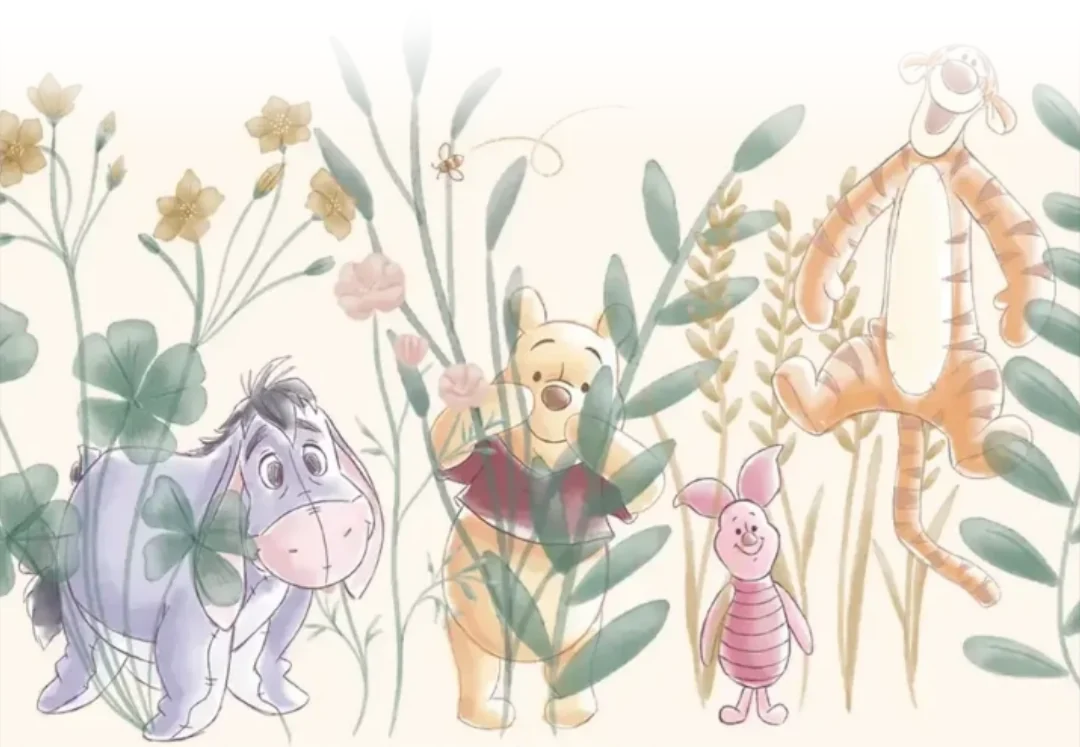
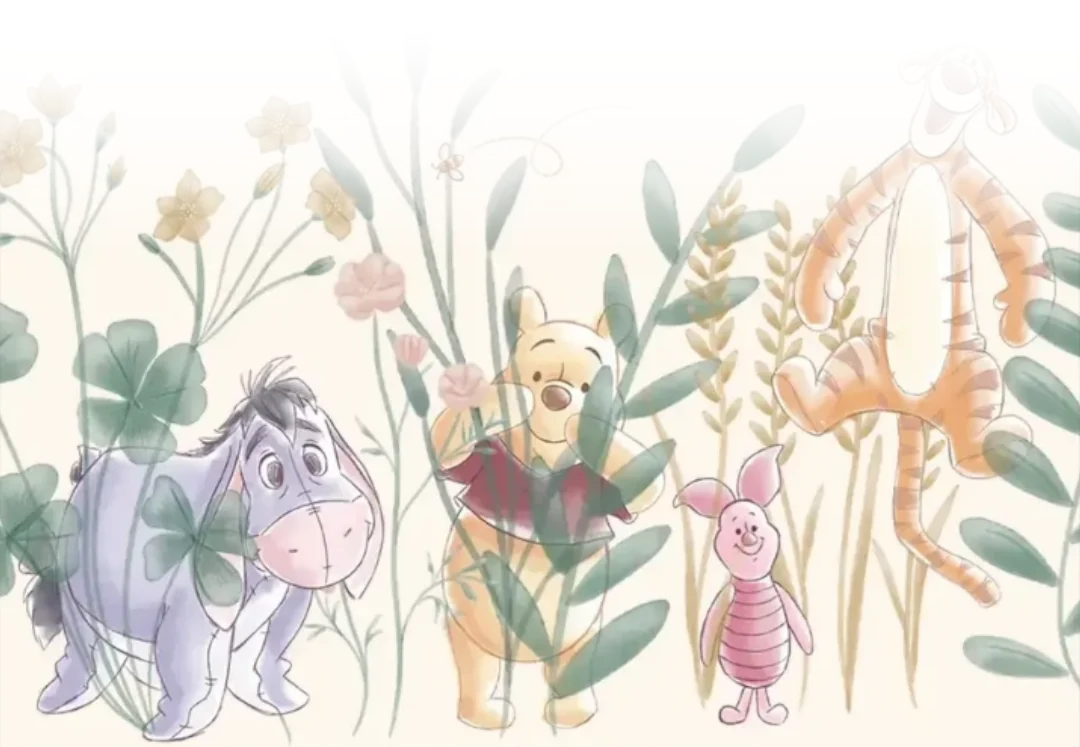
Set the card like the printed template; turn the card as it comes out
The letter is restated as the host's own card: one small serif line, the
names and occasion carried together in script, then the details as plain
centred lines. The labelled detail block, the dot rule and the display-serif
name were a different, busier card.

Ink sampled from the template, #7B7F6C. It measures 3.88:1 against the cream,
which is fine for the large script lines and short of the 4.5:1 body text
needs on a phone — so the script keeps the sampled colour exactly and the
body is darkened along the same hue to 5.25:1.

The card inside the envelope is now portrait and lies on its side, because a
portrait card does not fit upright in a landscape envelope. It is drawn out
sideways and turns upright as it settles in front, which is what your hands
do. It carries the same band and the same setting as the letter.

The card stock is set to the artwork's own cream. Against a full-width
watercolour, vellum's --paper was ten points cooler and read as a join.

The band's fade runs over the top third on a slow curve rather than the top
fifth. With almost no paint up there the last line of type can sit inside the
band instead of clearing it, which closes the stranded cream without standing
anyone in the flowers. Clearance is now derived from the image geometry and
the arithmetic is written down.

Also: the hint's arrow points up at the envelope rather than flattening out
to the right; the postmark date is 23 AUG 26 rather than roman numerals,
[…]

diff --git a/index.html b/index.html
@@ -60,6 +60,29 @@ body:not(.opened) #replyWrap{display:none}
 body:not(.opened) .letter{padding-bottom:0}
 .sheet{padding:var(--s10) clamp(24px,6vw,56px) var(--s9)}
 
+/* --- set like the printed card ---------------------------------------
+   The host's template is one muted green serif throughout, with the names
+   and the occasion carried by a single script line. Vellum's default
+   treatment — an uppercase eyebrow, a display-serif name, a dot rule and a
+   labelled detail block — is a different, busier card. This is that card
+   restated as the printed one. */
+.sheet .eyebrow{font-family:var(--disp);font-size:clamp(15px,3.4vw,17px);font-weight:400;
+  letter-spacing:.01em;text-transform:none;color:var(--card-ink);line-height:1.4}
+.sheet .honouree{font-family:var(--hand);font-weight:600;
+  font-size:clamp(40px,9vw,58px);line-height:.98;letter-spacing:0;
+  color:var(--card-ink-hd);text-align:center;margin:var(--s4) 0 0}
+.sheet .occasion{font-family:var(--hand);font-weight:600;
+  font-size:clamp(36px,8vw,52px);line-height:.98;color:var(--card-ink-hd);
+  text-align:center;margin-top:0}
+
+/* Every remaining fact, one centred line each. */
+.line{font-family:var(--disp);font-weight:400;text-align:center;
+  font-size:clamp(15px,3.5vw,17.5px);line-height:1.55;color:var(--card-ink);
+  margin-top:var(--s5)}
+.line--reply{font-size:clamp(13.5px,3vw,15px);color:var(--card-ink-2);margin-top:var(--s4)}
+.line a{color:inherit;font-size:inherit;text-decoration-color:color-mix(in srgb,var(--card-ink) 40%,transparent)}
+.line .sub{display:block;font-size:.94em;color:var(--card-ink-2);margin-top:2px}
+
 /* --- the card artwork -------------------------------------------------
    A host-supplied template paints behind the text. It is its own layer
    rather than a fifth entry in .paper's background stack: that stack is
@@ -79,11 +102,13 @@ body:not(.opened) .letter{padding-bottom:0}
    rather than doubled. */
 .sheet > :not(.sheet-inner){position:relative}
 .sheet-inner{display:var(--card-art-rule,block)}
-.host-note{margin-top:var(--s6);padding-top:var(--s6);border-top:var(--perf-fine);
-  font-size:16.5px;line-height:1.7;text-align:center}
-.host-note .sig{display:block;font-family:var(--hand);font-weight:600;font-size:27px;
-  color:var(--wax);margin-top:var(--s4);line-height:1}
-.sheet-actions{display:flex;justify-content:center;margin-top:var(--s7)}
+.host-note{font-family:var(--disp);font-weight:400;text-align:center;
+  font-size:clamp(15px,3.5vw,17.5px);line-height:1.55;color:var(--card-ink);
+  margin-top:var(--s6)}
+.host-note .sig{display:block;font-family:var(--hand);font-weight:600;font-size:26px;
+  color:var(--card-ink-hd);margin-top:var(--s3);line-height:1}
+.sheet-actions{display:flex;justify-content:center;margin-top:var(--s6)}
+body:not(.opened) .sheet-actions{display:none}
 
 /* --- the reply card --------------------------------------------------- */
 .reply-perf{margin:var(--s9) auto var(--s5)}
@@ -151,16 +176,16 @@ body:not(.opened) .letter{padding-bottom:0}
 
    Percentage padding resolves against width, exactly as the band's
    background-size:100% auto does, so this one number works at every screen
-   size with no media query. It is short of the band's full height on
-   purpose: the top of the band is faded out, and letting the last line
-   settle into it stops the card reading as two stacked panels. */
-.sheet{padding-bottom:calc(var(--card-art-ratio) - 13%)}
+   size with no media query.
 
-/* Attribution, as real text. The template carries this line baked into the
-   artwork at a size that is illegible on a phone; cropping it out and
-   setting it in type is the only version anyone can actually read. */
-.art-credit{max-width:620px;margin:var(--s4) auto 0;text-align:center;
-  font-size:11.5px;line-height:1.5;color:var(--ink-3)}
+   Where the 17% comes from, measured off the image rather than guessed:
+   the band sits 2.5% up from the bottom edge and is 69.2% tall, so its top
+   edge is at 71.7%. The top third of it ramps up from nothing on a slow
+   curve — 23.5% of the card's width where there is barely any paint — so
+   the last line of type can sit inside that and read cleanly. Clearing to
+   52.2% closes the stranded cream without standing anyone in the flowers. */
+.sheet{padding-bottom:calc(var(--card-art-ratio) - 17%)}
+
 </style>
 </head>
 <body>
@@ -175,7 +200,7 @@ body:not(.opened) .letter{padding-bottom:0}
        it. Pointing away from the thing you are being asked to tap is worse
        than no arrow. -->
   <p class="open-hint">
-    <svg viewBox="0 0 34 24" aria-hidden="true"><path d="M2 22c6-9 14-14 27-15"/><path d="M23 11l6-4-2-6"/></svg>
+    <svg viewBox="0 0 34 24" aria-hidden="true"><path d="M3 21C10 22 22 19 26 4"/><path d="M21 9L26 4l2 7"/></svg>
     Tap to open
   </p>
 </div>
@@ -185,37 +210,28 @@ body:not(.opened) .letter{padding-bottom:0}
 
   <article class="paper sheet" id="sheet" hidden>
     <div class="sheet-inner" aria-hidden="true"></div>
-    <p class="eyebrow">Please join us for</p>
-    <p class="occasion" id="occasion"></p>
-    <h1 class="honouree" id="honouree"></h1>
-    <div class="dot-rule" aria-hidden="true">
-      <i style="background:var(--wax)"></i><i style="background:var(--sky)"></i>
-      <i style="background:var(--sage)"></i><i style="background:var(--liner)"></i>
-    </div>
 
-    <dl class="detail-block">
-      <div class="detail">
-        <dt>When</dt>
-        <dd id="dWhen"></dd>
-      </div>
-      <div class="detail">
-        <dt>Where</dt>
-        <dd id="dWhere"></dd>
-      </div>
-      <div class="detail" id="dReplyRow">
-        <dt>Reply by</dt>
-        <dd id="dReply"></dd>
-      </div>
-    </dl>
+    <!-- Set the way the host's own template sets it: one small serif line,
+         the names and the occasion together in script, then the details as
+         plain centred lines. No labels, no rules, no ornament — the printed
+         card has none, and the artwork is the ornament. -->
+    <p class="eyebrow">You&rsquo;re invited to join us for</p>
+    <h1 class="honouree" id="honouree"></h1>
+    <p class="occasion" id="occasion"></p>
 
     <p class="host-note" id="hostNote" hidden></p>
+    <p class="line line--when" id="dWhen"></p>
+    <p class="line line--where" id="dWhere"></p>
+    <p class="line line--reply" id="dReplyRow">Reply by <span id="dReply"></span></p>
 
-    <div class="sheet-actions">
-      <button class="btn btn--ghost" data-icon="cal" id="cal">Add to calendar</button>
-    </div>
   </article>
-  <p class="art-credit">&copy;Disney. Based on the &ldquo;Winnie the Pooh&rdquo; works by
-     A.&thinsp;A. Milne and E.&thinsp;H. Shepard.</p>
+
+  <!-- Outside the card. The printed invitation has no button on it, and the
+       band runs to the bottom edge — anything placed over it is standing in
+       the flowers. -->
+  <div class="sheet-actions">
+    <button class="btn btn--ghost" data-icon="cal" id="cal">Add to calendar</button>
+  </div>
 
   <!-- ============ the reply card ============ -->
   <div id="replyWrap" hidden>

diff --git a/envelope.css b/envelope.css
@@ -25,7 +25,7 @@
   /* Where the card ends up: out of the pocket and forward, in front of the
      envelope. Named because three rules need it — the keyframe, and the two
      ways of reaching the rest state without running the sequence. */
-  --card-rest:translateZ(46px) translateY(-42%);
+  --card-rest:translateZ(46px) translateY(-30%) rotate(0deg);
 }
 /* Height reserved for the SETTLED composition: the envelope (69.4% of width)
    plus the card resting in front of it, which now overlaps rather than
@@ -36,7 +36,7 @@
    reserving for the peak instead would leave the resting envelope floating
    in a third of a screen of dead space for the whole time anyone is looking
    at it. The transient overlap is the cheaper of the two. */
-.scene::before{content:'';display:block;padding-top:104%}
+.scene::before{content:'';display:block;padding-top:107%}
 .scene--sm{max-width:300px}
 
 .env{position:absolute;left:0;right:0;bottom:3%;aspect-ratio:1.44/1;transform-style:preserve-3d;
@@ -138,23 +138,34 @@
 .w-mot-lo{color:var(--wax-xlo);opacity:.85}
 .w-mot-hi{color:var(--wax-hi);opacity:.72}
 
-/* ---- the card inside ---- */
-.env-card{position:absolute;left:7.5%;right:7.5%;bottom:5%;height:88%;
-  transform:translateZ(2px) translateY(0);
-  background-image:var(--grain),linear-gradient(168deg,var(--card),color-mix(in srgb,var(--card) 93%,#C9B79A));
+/* ---- the card inside ----
+   Portrait, and lying on its side. A portrait card does not fit upright in a
+   landscape envelope, so a real one goes in turned — and comes out turned,
+   and you rotate it in your hand.
+
+   Sized so that, lying down, it occupies 81% of the envelope's width and 85%
+   of its height: width 59% of the envelope's width, height 117% of its
+   height, which is 81% of the envelope's width. */
+.env-card{position:absolute;left:20.5%;top:-8.5%;width:59%;height:117%;
+  transform:translateZ(2px) translateY(0) rotate(90deg);
+  background-image:var(--grain),linear-gradient(168deg,var(--card),color-mix(in srgb,var(--card) 96%,#C9B79A));
   background-size:170px 170px,auto;background-repeat:repeat,no-repeat;
-  border:1px solid color-mix(in srgb,var(--card) 80%,#C9B79A);border-radius:.6em;
-  padding:1.9em 1.5em;text-align:center;color:var(--ink);
-  transition:transform var(--dCard) var(--eCard) var(--tCard),box-shadow var(--dCard) ease var(--tCard)}
+  border:1px solid color-mix(in srgb,var(--card) 88%,#C9B79A);border-radius:.5em;
+  /* Percentage padding resolves against the envelope's width, not the card's,
+     because the envelope is this card's containing block. The card is 59% of
+     that width, so 27% here is 46% of the card — the clearance the band needs. */
+  padding:1.7em 1.2em 27%;text-align:center;color:var(--card-ink);
+  transition:box-shadow var(--dCard) ease var(--tCard)}
 .env-card .ci{position:absolute;inset:.6em;border:1.4px dashed color-mix(in srgb,var(--ink) 20%,transparent);
   border-radius:.4em;pointer-events:none}
-.env-card .ck{font-size:.86em;font-weight:600;letter-spacing:.2em;text-transform:uppercase;
-  color:color-mix(in srgb,var(--accent) 80%,#000);position:relative}
-.env-card .ch{font-family:var(--hand);font-size:2.3em;color:var(--wax);line-height:.95;margin-top:.1em;position:relative}
-.env-card .cn{font-family:var(--disp);font-size:2.3em;font-weight:600;line-height:1.04;margin:.12em 0 .06em;position:relative}
-.env-card .cd{display:flex;gap:.55em;justify-content:center;margin:.8em 0;position:relative}
-.env-card .cd i{width:.55em;height:.55em;border-radius:50%;display:block}
-.env-card .cm{font-size:1.02em;line-height:1.7;color:color-mix(in srgb,var(--ink) 72%,var(--card));position:relative}
+.env-card .ck{font-family:var(--disp);font-size:.92em;font-weight:400;letter-spacing:.01em;
+  text-transform:none;color:var(--card-ink);line-height:1.35;position:relative}
+.env-card .cn{font-family:var(--hand);font-size:2.5em;font-weight:600;line-height:.98;
+  color:var(--card-ink-hd);margin-top:.22em;position:relative}
+.env-card .ch{font-family:var(--hand);font-size:2.2em;font-weight:600;line-height:.98;
+  color:var(--card-ink-hd);position:relative}
+.env-card .cm{font-family:var(--disp);font-size:.96em;line-height:1.5;
+  color:var(--card-ink);margin-top:.9em;position:relative}
 /* The same band the letter carries, so the envelope previews the card
    instead of showing a different design.
 
@@ -163,10 +174,12 @@
    at full width inside a short box anchored to the bottom instead, which
    crops the top of the band away and leaves the row of characters standing
    along the bottom edge — the part that reads at this size. */
-.env-card::after{content:'';position:absolute;left:0;right:0;bottom:0;height:42%;
-  overflow:hidden;border-radius:0 0 .55em .55em;pointer-events:none;
-  background-image:var(--card-art,none);background-size:100% auto;
-  background-position:center bottom;background-repeat:no-repeat}
+.env-card::after{content:'';position:absolute;inset:0;border-radius:inherit;pointer-events:none;
+  background-image:var(--card-art,none);
+  background-size:var(--card-art-size,100% auto);
+  background-position:var(--card-art-pos,center bottom);
+  background-repeat:no-repeat}
+.env-card > *{position:relative}
 .env-card .ci{display:var(--card-art-rule,block)}
 
 /* ---- playback ---- */
@@ -187,9 +200,9 @@
    reads as paper passing through paper. So it clears first, at its original
    depth, and only then comes toward the viewer. */
 @keyframes card-out{
-  0%   {transform:translateZ(2px)  translateY(0)}
-  56%  {transform:translateZ(2px)  translateY(-112%)}   /* clear of the pocket */
-  100% {transform:var(--card-rest)}                     /* resting in front */
+  0%   {transform:translateZ(2px)  translateY(0)     rotate(90deg)}
+  50%  {transform:translateZ(2px)  translateY(-80%)  rotate(90deg)}  /* drawn out, still sideways */
+  100% {transform:var(--card-rest)}                                  /* turned upright, in front */
 }
 .scene.play .env-card{
   animation:card-out calc(var(--dCard)*2.05) var(--eCard) var(--tCard) both;

diff --git a/card-art.css b/card-art.css
@@ -21,4 +21,24 @@
      1080x747. Both background-size:100% auto and percentage padding resolve
      against width, so this one number drives every clearance below. */
   --card-art-ratio:69.2%;
+  /* The artwork's own background, sampled from the template. The card stock
+     is set to match it so the band has no edge to show: vellum's --paper is
+     #FFFDF8, ten points cooler, and against a full-width watercolour that
+     difference reads as a join. */
+  --card-cream:#FEF7EE;
+
+  /* The template's ink, sampled from the artwork: a muted grey-green, used
+     for everything on the printed card. It measures 3.88:1 against the cream
+     — fine for the large script lines, which need 3:1, and short of the
+     4.5:1 that body text needs on a phone held at arm's length. So the
+     script keeps the sampled colour exactly and the body text is darkened
+     along the same hue until it passes. */
+  --card-ink-hd:#7B7F6C;   /* script headings   3.88:1, large text */
+  --card-ink:#666A57;      /* body              5.25:1 */
+  --card-ink-2:#6E7260;    /* reply-by          4.66:1 */
 }
+/* Both cards, the letter and the one inside the envelope. Each is a local
+   override of the token its own background rules already use, so every
+   gradient and texture built on top of it follows. */
+.sheet{--paper:var(--card-cream)}
+.env-card{--card:var(--card-cream)}

diff --git a/invite.js b/invite.js
@@ -61,9 +61,12 @@ function shortDate(iso){
   return isNaN(d) ? '' : d.toLocaleDateString('en-GB', {weekday:'long', day:'numeric', month:'long', timeZone:TZ});
 }
 /** A postmark writes its month in roman numerals. */
+/* Roman numerals are the real postal convention for the month, and nobody
+   reading this knows that — it just looks like a serial number on the stamp.
+   Plain letters instead. */
 function postmarkDate(d){
-  const M = ['I','II','III','IV','V','VI','VII','VIII','IX','X','XI','XII'];
-  return `${String(d.getDate()).padStart(2,'0')} · ${M[d.getMonth()]} · ${String(d.getFullYear()).slice(2)}`;
+  const M = ['JAN','FEB','MAR','APR','MAY','JUN','JUL','AUG','SEP','OCT','NOV','DEC'];
+  return `${String(d.getDate()).padStart(2,'0')} ${M[d.getMonth()]} ${String(d.getFullYear()).slice(2)}`;
 }
 
 /* --- elements ----------------------------------------------------------- */
@@ -123,7 +126,7 @@ function render(doc){
             date:   postmarkDate(posted) },
     die:  EV.sealDie || 'm-pram',
     card: {
-      kicker:  'Please join us for',
+      kicker:  'You\u2019re invited to join us for',
       occasion: esc(EV.occasionLine || ''),
       name:     esc(EV.honouree || ''),
       meta:     `${esc(when)}<br>${esc(place)}`

diff --git a/envelope.js b/envelope.js
@@ -24,8 +24,8 @@ const DEFAULTS = {
   mark: { city:'OTTAWA', region:'ON · CANADA', date:'09 · V · 26' },
   stamp:{ country:'CANADA', value:'P' },
   die:  'm-pram',
-  card: { kicker:'Please join us for', occasion:'a baby shower',
-          name:'honouring<br>Amara',
+  card: { kicker:"You're invited to join us for", occasion:'a baby shower',
+          name:'Amara &amp; Theo',
           meta:'Saturday, May 9th · 2:00 pm<br>14 Thornbury Lane, Ottawa' }
 };
 
@@ -101,12 +101,8 @@ function markup(o, n){
         <div class="env-card">
           <div class="ci"></div>
           <div class="ck" data-f="card.kicker">${o.card.kicker}</div>
-          <div class="ch" data-f="card.occasion">${o.card.occasion}</div>
           <div class="cn" data-f="card.name">${o.card.name}</div>
-          <div class="cd">
-            <i style="background:var(--wax)"></i><i style="background:var(--sky)"></i>
-            <i style="background:var(--sage)"></i><i style="background:var(--liner)"></i>
-          </div>
+          <div class="ch" data-f="card.occasion">${o.card.occasion}</div>
           <div class="cm" data-f="card.meta">${o.card.meta}</div>
         </div>
         <div class="lip"></div>

diff --git a/admin.js b/admin.js
@@ -369,8 +369,8 @@ const esc = s => String(s ?? '').replace(/[&<>"]/g,
   c => ({'&':'&amp;','<':'&lt;','>':'&gt;','"':'&quot;'}[c]));
 
 function postmarkDate(d){
-  const M = ['I','II','III','IV','V','VI','VII','VIII','IX','X','XI','XII'];
-  return `${String(d.getDate()).padStart(2,'0')} · ${M[d.getMonth()]} · ${String(d.getFullYear()).slice(2)}`;
+  const M = ['JAN','FEB','MAR','APR','MAY','JUN','JUL','AUG','SEP','OCT','NOV','DEC'];
+  return `${String(d.getDate()).padStart(2,'0')} ${M[d.getMonth()]} ${String(d.getFullYear()).slice(2)}`;
 }
 
 /* Formatted exactly as invite.js formats it. The preview is worth nothing if
